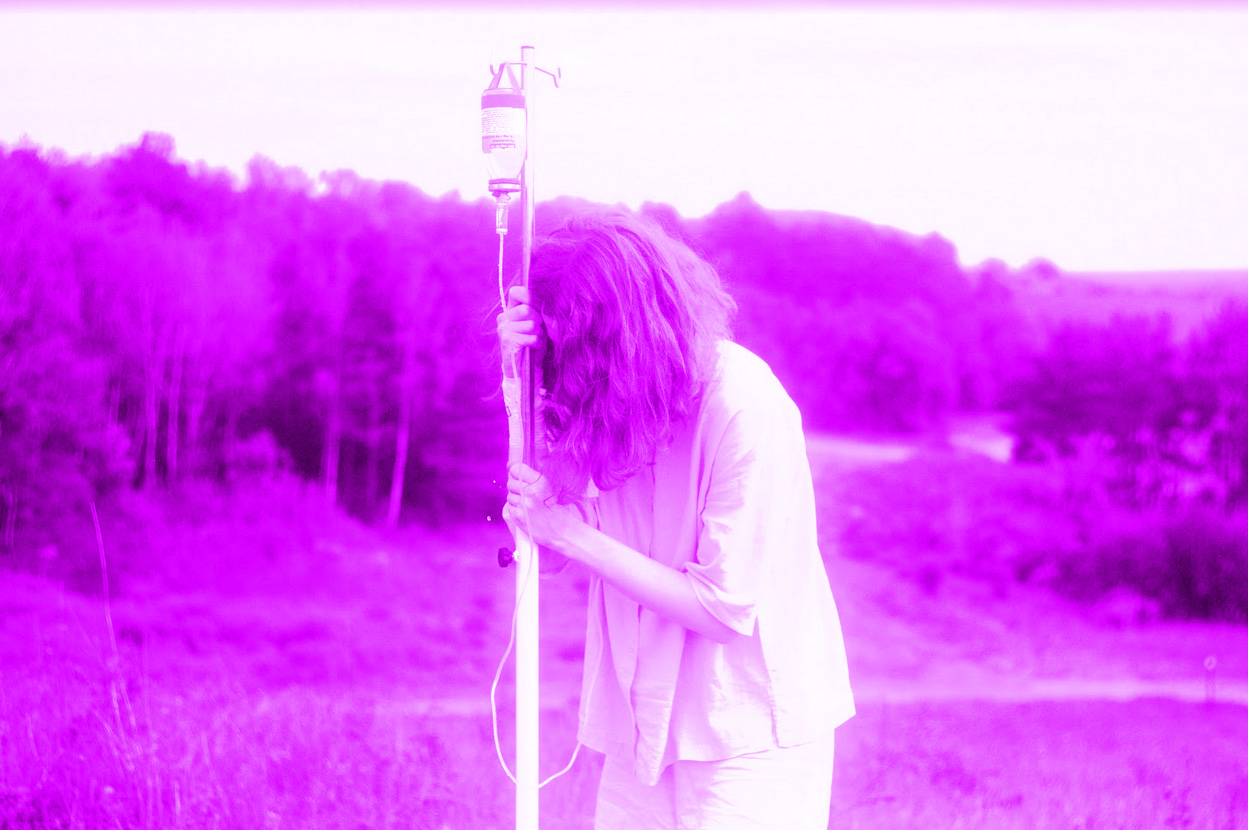
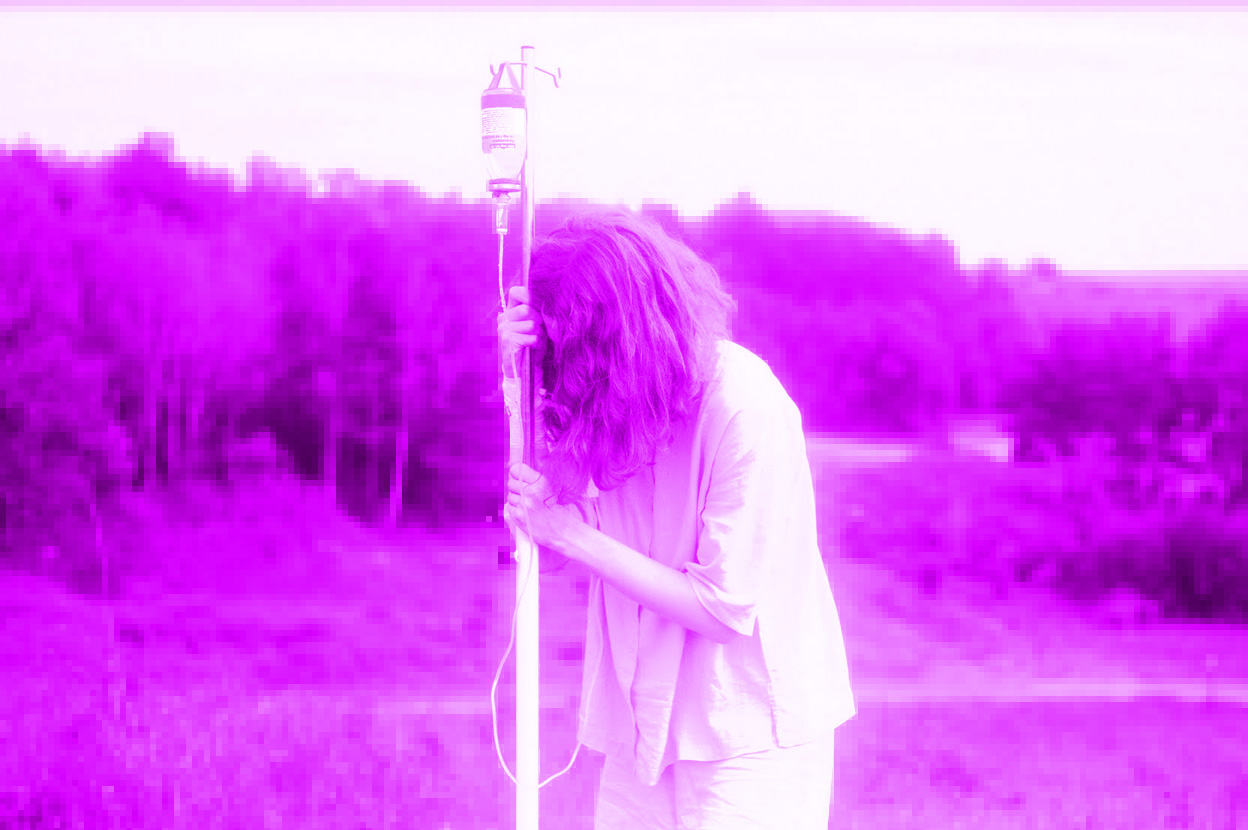
fixes

diff --git a/index.html b/index.html
@@ -35,7 +35,7 @@
         <main>
             <article id="gallery" class="active">
                 <div class="post">
-                    <div class="image"><img src="res/gallery/silverr.png"></div>
+                    <div class="image"><img src="res/gallery/silverr.jpg"></div>
                     <div class="description">
                         <div class="title">silverr</div>
                         <div class="text">Created as an album cover for <b><a href="#">silverr</a></b>. Created as an album cover for <b><a href="#">silverr</a></b>. Created as an album cover for <b><a href="#">silverr</a></b>. Created as an album cover for <b><a href="#">silverr</a></b>.</div>

diff --git a/index-3.css b/index-3.css
@@ -117,7 +117,7 @@ article {
 }
 
 .post:hover img {
-    filter: hue-rotate(90deg);
+    filter: invert(100%);
 }
 
 .image {
@@ -303,7 +303,7 @@ a:hover {
     }
 
     .post:hover img {
-        filter: hue-rotate(0deg);
+        filter: invert(0%);
     }
 }
 
@@ -362,6 +362,6 @@ a:hover {
     }
 
     .post:hover img {
-        filter: hue-rotate(0deg);
+        filter: invert(0%);
     }
 }
